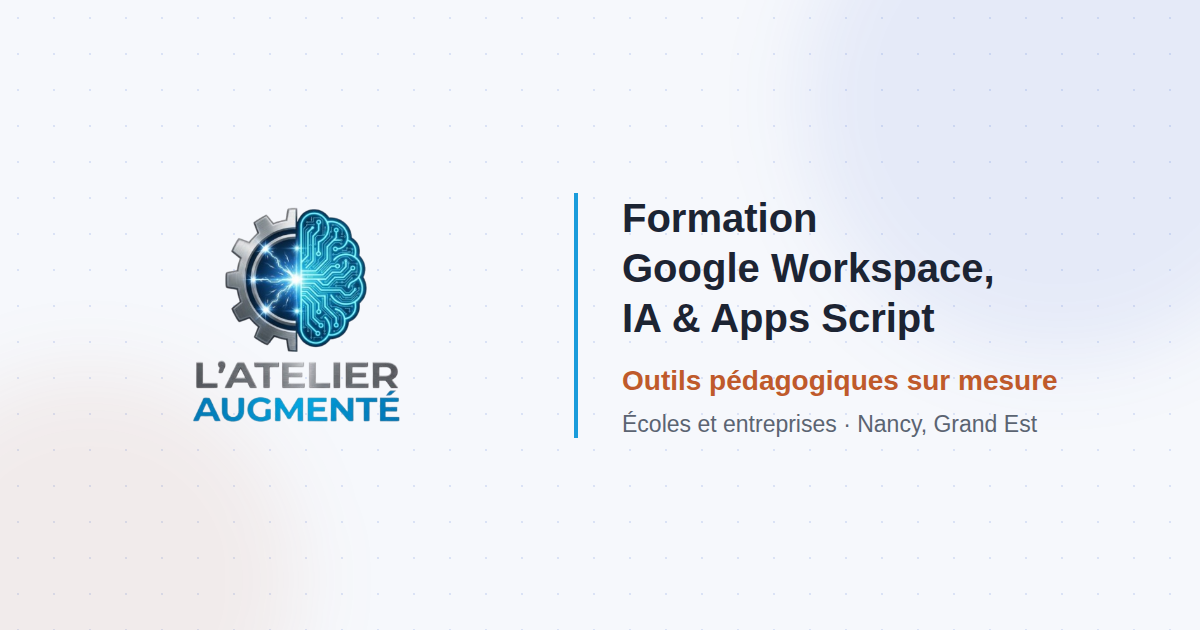
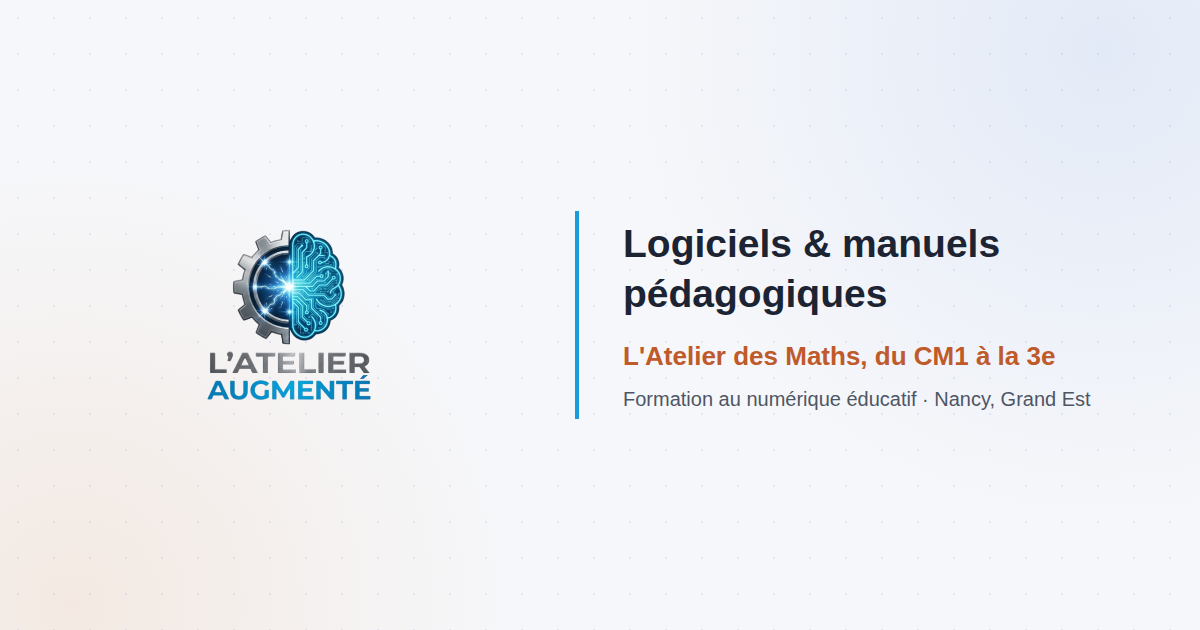
Site : logiciels et manuels pédagogiques au premier plan, formation en complément
Accueil (titre, présentation, piliers, chiffres, méthode, appel à l'action), menu,
pied de page, page À propos et image de partage réorientés vers l'activité principale
déclarée : création et vente de logiciels pédagogiques et de manuels numériques et papier.
L'Atelier des Maths mis à jour : du CM1 à la 3e (119 chapitres), lien vers les tarifs.

Claude-Session: https://claude.ai/code/session_01Bck5Zj23XtYH4Wg2EzL6Bn

Changed region(s): [[0.4933, 0.3016, 0.925, 0.6937], [0.1542, 0.3317, 0.3392, 0.6937], [0.4625, 0.6635, 0.4933, 0.6937]]

diff --git a/index.html b/index.html
@@ -3,18 +3,18 @@
 <head>
   <meta charset="UTF-8">
   <meta name="viewport" content="width=device-width, initial-scale=1.0">
-  <title>L'Atelier Augmenté — Expertise Numérique Écoles & Entreprises</title>
-  <meta name="description" content="Organisme de formation Google Workspace Education, IA et automatisation. Développement d'outils pédagogiques sur mesure. Région Grand Est.">
+  <title>L'Atelier Augmenté — Logiciels et manuels pédagogiques</title>
+  <meta name="description" content="Création et vente de logiciels pédagogiques et de manuels numériques et papier, dont L'Atelier des Maths (du CM1 à la 3e). En complément : formations au numérique éducatif. Région Grand Est.">
   <link rel="canonical" href="https://www.latelieraugmente.fr/">
   <meta property="og:type" content="website">
   <meta property="og:site_name" content="L'Atelier Augmenté">
   <meta property="og:locale" content="fr_FR">
-  <meta property="og:title" content="L'Atelier Augmenté — Expertise Numérique Écoles &amp; Entreprises">
-  <meta property="og:description" content="Organisme de formation Google Workspace Education, IA et automatisation. Développement d'outils pédagogiques sur mesure. Région Grand Est.">
+  <meta property="og:title" content="L'Atelier Augmenté — Logiciels et manuels pédagogiques">
+  <meta property="og:description" content="Création et vente de logiciels pédagogiques et de manuels numériques et papier, dont L'Atelier des Maths (du CM1 à la 3e). En complément : formations au numérique éducatif. Région Grand Est.">
   <meta property="og:url" content="https://www.latelieraugmente.fr/">
   <meta property="og:image" content="https://www.latelieraugmente.fr/og-image.png">
   <meta name="twitter:card" content="summary_large_image">
-  <script type="application/ld+json">{"@context": "https://schema.org", "@graph": [{"@type": ["EducationalOrganization", "ProfessionalService"], "@id": "https://www.latelieraugmente.fr/#organisation", "name": "L'Atelier Augmenté", "url": "https://www.latelieraugmente.fr/", "logo": "https://www.latelieraugmente.fr/Logo_transp.png", "image": "https://www.latelieraugmente.fr/og-image.png", "email": "contact@latelieraugmente.fr", "description": "Organisme de formation Google Workspace Education, IA et automatisation Apps Script ; développement d'outils pédagogiques et d'applications sur mesure pour écoles et entreprises.", "address": {"@type": "PostalAddress", "addressLocality": "Nancy", "addressRegion": "Grand Est", "addressCountry": "FR"}, "areaServed": [{"@type": "AdministrativeArea", "name": "Grand Est"}, {"@type": "Country", "name": "France"}], "founder": {"@type": "Person", "name": "Olivier Guyot", "jobTitle": "Formateur, professeur de mathématiques"}, "knowsAbout": ["Google Workspace for Education", "Google Sheets", "Google Apps Script", "Intelligence artificielle générative", "Outils pédagogiques numériques"], "hasCredential": {"@type": "EducationalOccupationalCredential", "credentialCategory": "Déclaration d'activité de formation", "identifier": "44540498054", "recognizedBy": {"@type": "GovernmentOrganization", "name": "Préfet de la région Grand Est"}}, "subOrganization": {"@type": "WebSite", "name": "L'Atelier des Maths", "url": "https://maths.latelieraugmente.fr/"}}, {"@type": "WebSite", "name": "L'Atelier Augmenté", "url": "https://www.latelieraugmente.fr/", "inLanguage": "fr", "publisher": {"@id": "https://www.latelieraugmente.fr/#organisation"}}]}</script>
+  <script type="application/ld+json">{"@context": "https://schema.org", "@graph": [{"@type": ["Organization", "EducationalOrganization"], "@id": "https://www.latelieraugmente.fr/#organisation", "name": "L'Atelier Augmenté", "url": "https://www.latelieraugmente.fr/", "logo": "https://www.latelieraugmente.fr/Logo_transp.png", "image": "https://www.latelieraugmente.fr/og-image.png", "email": "contact@latelieraugmente.fr", "description": "Création et vente de logiciels pédagogiques et de manuels numériques et papier, dont la plateforme L'Atelier des Maths (du CM1 à la 3e). En complément : formation au numérique éducatif (Google Workspace, IA, Apps Script) et outils sur mesure.", "address": {"@type": "PostalAddress", "addressLocality": "Nancy", "addressRegion": "Grand Est", "addressCountry": "FR"}, "areaServed": [{"@type": "AdministrativeArea", "name": "Grand Est"}, {"@type": "Country", "name": "France"}], "founder": {"@type": "Person", "name": "Olivier Guyot", "jobTitle": "Concepteur de logiciels pédagogiques, professeur de mathématiques"}, "knowsAbout": ["Logiciels pédagogiques", "Manuels scolaires numériques", "Google Workspace for Education", "Google Sheets", "Google Apps Script", "Intelligence artificielle générative", "Outils pédagogiques numériques"], "hasCredential": {"@type": "EducationalOccupationalCredential", "credentialCategory": "Déclaration d'activité de formation", "identifier": "44540498054", "recognizedBy": {"@type": "GovernmentOrganization", "name": "Préfet de la région Grand Est"}}, "subOrganization": {"@type": "WebSite", "name": "L'Atelier des Maths", "url": "https://maths.latelieraugmente.fr/"}}, {"@type": "WebSite", "name": "L'Atelier Augmenté", "url": "https://www.latelieraugmente.fr/", "inLanguage": "fr", "publisher": {"@id": "https://www.latelieraugmente.fr/#organisation"}}]}</script>
   <link rel="preconnect" href="https://fonts.googleapis.com">
   <link rel="preconnect" href="https://fonts.gstatic.com" crossorigin>
   <link href="https://fonts.googleapis.com/css2?family=Plus+Jakarta+Sans:wght@400;500;600;700;800&family=Geist:wght@300;400;500&display=swap" rel="stylesheet">
@@ -227,24 +227,24 @@
   <div class="hero-blob hero-blob-2"></div>
   <div class="hero-inner">
     <div>
-      <div class="hero-pill reveal"><span class="hero-pill-dot"></span>Organisme de formation certifié · Grand Est</div>
-      <h1 class="reveal d1">Expertise<br><em>Numérique</em><br>&amp; Pédagogique</h1>
-      <p class="hero-desc reveal d2">Google Workspace Education, Intelligence Artificielle, automatisation Apps Script — et le développement d'outils pédagogiques sur mesure.</p>
+      <div class="hero-pill reveal"><span class="hero-pill-dot"></span>Logiciels &amp; manuels pédagogiques · Grand Est</div>
+      <h1 class="reveal d1">Des <em>logiciels</em><br>pédagogiques<br>pensés pour la classe</h1>
+      <p class="hero-desc reveal d2">L'Atelier Augmenté conçoit et vend des logiciels pédagogiques et des manuels numériques et papier, à commencer par L'Atelier des Maths, du CM1 à la 3e. En complément : des formations au numérique éducatif.</p>
       <div class="hero-actions reveal d3">
-        <a href="formations.html" class="btn btn-primary">Voir les formations →</a>
-        <a href="contact.html" class="btn btn-outline">Prendre rendez-vous</a>
+        <a href="https://maths.latelieraugmente.fr" target="_blank" rel="noopener" class="btn btn-primary">Découvrir L'Atelier des Maths →</a>
+        <a href="https://maths.latelieraugmente.fr/tarifs/" target="_blank" rel="noopener" class="btn btn-outline">Voir les tarifs</a>
       </div>
     </div>
     <div class="hero-panel reveal d2">
       <div class="panel-head">
         <div class="panel-head-label">L'Atelier Augmenté</div>
-        <div class="panel-head-title">Formation · Outils · Innovation</div>
+        <div class="panel-head-title">Logiciels · Manuels · Formation</div>
       </div>
       <div class="panel-grid">
+        <div class="panel-stat"><div class="stat-n">CM1→3e</div><div class="stat-l">Niveaux couverts par L'Atelier des Maths</div></div>
+        <div class="panel-stat"><div class="stat-n">119</div><div class="stat-l">Chapitres de cours en ligne</div></div>
         <div class="panel-stat"><div class="stat-n">25+</div><div class="stat-l">Années d'expérience en éducation</div></div>
         <div class="panel-stat"><div class="stat-n">18 ans</div><div class="stat-l">Direction d'établissement scolaire</div></div>
-        <div class="panel-stat"><div class="stat-n">6e→Tle</div><div class="stat-l">Outils pédagogiques tous niveaux</div></div>
-        <div class="panel-stat"><div class="stat-n">IA+</div><div class="stat-l">Expertise IA générative &amp; Workspace</div></div>
       </div>
     </div>
   </div>
@@ -255,28 +255,28 @@
   <div class="services-hd">
     <div>
       <span class="section-tag reveal">Ce que nous faisons</span>
-      <h2 class="section-title reveal d1">Trois piliers,<br>une mission</h2>
+      <h2 class="section-title reveal d1">Créer, éditer,<br>accompagner</h2>
     </div>
-    <p class="section-sub reveal d1">Des solutions concrètes pour accompagner la transformation numérique de votre établissement ou entreprise.</p>
+    <p class="section-sub reveal d1">Des logiciels et des manuels conçus par un professeur, pour la classe ; et des formations pour en tirer le meilleur.</p>
   </div>
   <div class="services-grid">
     <div class="svc reveal">
-      <div class="svc-icon">🤖</div>
-      <h3>Formation IA &amp; Workspace</h3>
-      <p>Déploiement Google Workspace Education, maîtrise de l'IA générative et automatisation des processus pour écoles et entreprises.</p>
-      <a href="formations.html">Explorer les formations →</a>
+      <div class="svc-icon">📐</div>
+      <h3>Logiciels pédagogiques</h3>
+      <p>L'Atelier des Maths : cours, exercices, outils de classe, devoirs et évaluations, du CM1 à la 3e. Licences pour un professeur, un établissement ou une famille.</p>
+      <a href="https://maths.latelieraugmente.fr" target="_blank" rel="noopener">Découvrir L'Atelier des Maths →</a>
     </div>
     <div class="svc reveal d1">
-      <div class="svc-icon">⚡</div>
-      <h3>Automatisation Apps Script</h3>
-      <p>Solutions sur mesure : publipostage, flux de documents, outils de gestion personnalisés pour directions et personnels administratifs.</p>
-      <a href="formations.html">En savoir plus →</a>
+      <div class="svc-icon">📚</div>
+      <h3>Manuels numériques &amp; papier</h3>
+      <p>Des manuels et cahiers d'exercices conçus pour la classe : à projeter, à faire à l'écran ou à imprimer, avec leurs corrigés rédigés.</p>
+      <a href="creations.html">En savoir plus →</a>
     </div>
     <div class="svc reveal d2">
-      <div class="svc-icon">📐</div>
-      <h3>Outils pédagogiques sur mesure</h3>
-      <p>Conception d'applications et de plateformes pédagogiques interactives, pensées pour la classe. De la 6ème à la Terminale.</p>
-      <a href="creations.html">Découvrir →</a>
+      <div class="svc-icon">🎓</div>
+      <h3>Formation &amp; sur mesure</h3>
+      <p>En complément : formations Google Workspace Education, IA générative et Apps Script, et outils sur mesure pour les établissements.</p>
+      <a href="formations.html">Voir les formations →</a>
     </div>
   </div>
 </section>
@@ -286,23 +286,24 @@
   <div class="featured-inner">
     <div class="featured-copy">
       <span class="featured-badge reveal">En ligne depuis la rentrée 2026</span>
-      <span class="section-tag reveal d1">Un exemple concret</span>
-      <h2 class="section-title reveal d1">L'Atelier des Maths,<br>une plateforme que j'utilise vraiment</h2>
+      <span class="section-tag reveal d1">Notre logiciel phare</span>
+      <h2 class="section-title reveal d1">L'Atelier des Maths,<br>du CM1 à la 3e</h2>
       <p class="section-sub reveal d2">
-        Un cours complet pour chaque chapitre de 6ᵉ et de 5ᵉ : figures géométriques manipulables,
+        Un cours complet pour chaque chapitre, du CM1 à la 3e : figures géométriques manipulables,
         figures qui se construisent pas à pas à la règle et au compas, mode apprentissage pour réciter ses définitions, méthodes de rédaction
         et quiz générés par IA pour s'entraîner à l'infini. Côté professeur : cours personnalisables, devoirs corrigés
         automatiquement avec suivi du temps de travail, correction projetée en direct, création d'évaluations et bien plus.
       </p>
       <ul class="featured-list reveal d2">
-        <li>39 chapitres couvrant l'intégralité du programme B.O. 2026 (6ᵉ et 5ᵉ)</li>
+        <li>119 chapitres du CM1 à la 3e, conformes aux programmes en vigueur</li>
         <li>Figures construites pas à pas à la règle et au compas, et mode apprentissage des définitions</li>
         <li>Devoirs corrigés automatiquement : médailles, tentatives et temps de travail réel</li>
         <li>Cours personnalisables par chaque professeur, partagés avec ses collègues</li>
         <li>Tableau interactif, correction projetée, générateur d'évaluations, espace établissement</li>
       </ul>
-      <p class="featured-roadmap reveal d2">Disponible aujourd'hui : 6ᵉ et 5ᵉ. <strong>À venir :</strong> 4ᵉ/3ᵉ et CM1/CM2.</p>
+      <p class="featured-roadmap reveal d2">Licences pour un professeur, un établissement ou une famille : <strong>15 jours d'essai gratuit</strong>, paiement unique pour l'année scolaire, sans reconduction.</p>
       <a href="https://maths.latelieraugmente.fr" target="_blank" rel="noopener" class="btn btn-primary reveal d3">Découvrir la plateforme →</a>
+      <a href="https://maths.latelieraugmente.fr/tarifs/" target="_blank" rel="noopener" class="btn btn-outline reveal d3">Voir les tarifs</a>
       <a href="#atelier-maths-videos" class="btn btn-outline reveal d3">Voir les vidéos</a>
     </div>
     <div class="browser-mockup browser-mockup-carousel reveal d1">
@@ -456,8 +457,8 @@
   <div class="numbers-inner">
     <div class="num-item reveal"><div class="num-val">1998</div><div class="num-label">Début de l'enseignement des mathématiques</div></div>
     <div class="num-item reveal d1"><div class="num-val">18</div><div class="num-label">Années de direction d'établissement</div></div>
-    <div class="num-item reveal d2"><div class="num-val">3</div><div class="num-label">Piliers : Formation, Outils, Innovation</div></div>
-    <div class="num-item reveal d3"><div class="num-val">100%</div><div class="num-label">Autonomie — vos outils vous appartiennent</div></div>
+    <div class="num-item reveal d2"><div class="num-val">6</div><div class="num-label">Niveaux couverts, du CM1 à la 3e</div></div>
+    <div class="num-item reveal d3"><div class="num-val">0 €</div><div class="num-label">À payer pour les élèves d'une classe abonnée</div></div>
   </div>
 </div>
 
@@ -466,14 +467,14 @@
   <div class="process-inner">
     <div class="process-hd">
       <span class="section-tag reveal">Notre méthode</span>
-      <h2 class="section-title reveal d1">De l'audit à la mise en place</h2>
-      <p class="section-sub reveal d2" style="margin:0 auto">Une approche structurée pour des résultats durables.</p>
+      <h2 class="section-title reveal d1">Conçu en classe, amélioré chaque semaine</h2>
+      <p class="section-sub reveal d2" style="margin:0 auto">Des logiciels et des manuels nés de besoins réels, et qui continuent d'évoluer.</p>
     </div>
     <div class="process-steps">
-      <div class="pstep reveal"><div class="pstep-num">01</div><h3>Audit des besoins</h3><p>Analyse de votre environnement actuel et de vos objectifs spécifiques.</p></div>
-      <div class="pstep reveal d1"><div class="pstep-num">02</div><h3>Conception sur mesure</h3><p>Élaboration d'un programme adapté à votre structure et vos équipes.</p></div>
-      <div class="pstep reveal d2"><div class="pstep-num">03</div><h3>Formation &amp; déploiement</h3><p>Accompagnement terrain avec sessions pratiques et outils clé en main.</p></div>
-      <div class="pstep reveal d3"><div class="pstep-num">04</div><h3>Suivi &amp; évolution</h3><p>Support continu et adaptation aux évolutions de vos besoins numériques.</p></div>
+      <div class="pstep reveal"><div class="pstep-num">01</div><h3>Conçu par un professeur</h3><p>Chaque outil part d'un besoin rencontré en classe, avec de vrais élèves.</p></div>
+      <div class="pstep reveal d1"><div class="pstep-num">02</div><h3>Fidèle aux programmes</h3><p>Cours et exercices suivent les programmes officiels en vigueur, niveau par niveau.</p></div>
+      <div class="pstep reveal d2"><div class="pstep-num">03</div><h3>Mis à jour en continu</h3><p>Nouvelles fonctions et corrections chaque semaine, à partir des retours des professeurs.</p></div>
+      <div class="pstep reveal d3"><div class="pstep-num">04</div><h3>Prise en main accompagnée</h3><p>Aide au démarrage et formation des équipes, pour en tirer le meilleur.</p></div>
     </div>
   </div>
 </section>
@@ -482,10 +483,11 @@
 <section class="cta-band">
   <div class="cta-band-inner">
     <span class="section-tag reveal" style="display:block">Passez à l'action</span>
-    <h2 class="reveal d1">Prêt à augmenter votre potentiel numérique ?</h2>
-    <p class="reveal d2">Un entretien gratuit pour définir ensemble votre feuille de route. Aucun engagement.</p>
+    <h2 class="reveal d1">Essayez L'Atelier des Maths dans votre classe</h2>
+    <p class="reveal d2">15 jours d'essai gratuit, sans engagement. Pour une licence établissement, une formation ou un projet sur mesure : prenons rendez-vous.</p>
     <div class="cta-actions reveal d3">
-      <a href="contact.html" class="btn btn-primary">Prendre rendez-vous →</a>
+      <a href="https://maths.latelieraugmente.fr" target="_blank" rel="noopener" class="btn btn-primary">Essayer gratuitement →</a>
+      <a href="contact.html" class="btn btn-outline">Prendre rendez-vous</a>
     </div>
   </div>
 </section>

diff --git a/creations.html b/creations.html
@@ -415,18 +415,18 @@
       <h2 class="section-title reveal d1">L'Atelier des Maths,<br>un exemple parmi mes créations</h2>
       <p class="section-sub reveal d2">
         Plutôt que de vous parler de ce que je pourrais faire, voici un outil pédagogique complet que j'ai conçu
-        et que j'utilise vraiment avec mes propres classes : un cours pour chaque chapitre de 6ᵉ et de 5ᵉ,
+        et que j'utilise vraiment avec mes propres classes : un cours pour chaque chapitre, du CM1 à la 3e,
         des figures manipulables, des figures qui se construisent pas à pas à la règle et au compas, des quiz générés par IA, et tout le nécessaire
         côté professeur pour gagner du temps au quotidien : cours personnalisables, devoirs corrigés automatiquement, correction projetée.
       </p>
       <ul class="featured-list reveal d2">
-        <li>39 chapitres couvrant l'intégralité du programme B.O. 2026 (6ᵉ et 5ᵉ)</li>
+        <li>119 chapitres du CM1 à la 3e, conformes aux programmes en vigueur</li>
         <li>Figures construites pas à pas à la règle et au compas, et mode apprentissage des définitions</li>
         <li>Devoirs corrigés automatiquement : médailles, tentatives et temps de travail réel</li>
         <li>Cours personnalisables par chaque professeur, partagés avec ses collègues</li>
         <li>Tableau interactif, correction projetée, générateur d'évaluations, espace établissement</li>
       </ul>
-      <p class="featured-roadmap reveal d2">Disponible aujourd'hui : 6ᵉ et 5ᵉ. <strong>À venir :</strong> 4ᵉ/3ᵉ et CM1/CM2.</p>
+      <p class="featured-roadmap reveal d2">Licences pour un professeur, un établissement ou une famille : <strong>15 jours d'essai gratuit</strong>, paiement unique pour l'année scolaire. <a href="https://maths.latelieraugmente.fr/tarifs/" target="_blank" rel="noopener">Voir les tarifs</a></p>
       <a href="https://maths.latelieraugmente.fr" target="_blank" rel="noopener" class="btn btn-primary reveal d3">Découvrir la plateforme →</a>
       <a href="#atelier-maths-videos" class="btn btn-outline reveal d3">Voir les vidéos</a>
     </div>

diff --git a/apropos.html b/apropos.html
@@ -192,9 +192,9 @@
     <span class="section-tag reveal" style="color:rgba(255,255,255,0.5);display:block;text-align:center">Notre mission</span>
     <h2 class="section-title reveal d1" style="color:#fff;text-align:center;margin-bottom:3rem">Les trois piliers de L'Atelier Augmenté</h2>
     <div class="pgrid">
-      <div class="pcrd2 reveal"><span class="pcrd2-n">01</span><span class="ico">🎓</span><h3>La Formation</h3><p>Accompagner enseignants, cadres et entreprises dans leur montée en compétences : Workspace Education, IA, Google Apps Script. À chaque problème, une solution concrète.</p></div>
-      <div class="pcrd2 reveal d1"><span class="pcrd2-n">02</span><span class="ico">📐</span><h3>Les Outils Pédagogiques</h3><p>Le développement d'applications et de plateformes pédagogiques interactives, pensées pour la classe. L'excellence pédagogique au service de chaque élève, du collège à la Terminale.</p></div>
-      <div class="pcrd2 reveal d2"><span class="pcrd2-n">03</span><span class="ico">⚙</span><h3>L'Innovation</h3><p>La création de produits numériques sur mesure : automatisations, outils de gestion pour établissements et professionnels. Des solutions qui vous appartiennent entièrement.</p></div>
+      <div class="pcrd2 reveal"><span class="pcrd2-n">01</span><span class="ico">📐</span><h3>Les Logiciels Pédagogiques</h3><p>Le cœur de L'Atelier Augmenté : concevoir et vendre des logiciels pédagogiques pensés pour la classe, à commencer par L'Atelier des Maths, du CM1 à la 3e.</p></div>
+      <div class="pcrd2 reveal d1"><span class="pcrd2-n">02</span><span class="ico">📚</span><h3>Les Manuels</h3><p>Des manuels et cahiers d'exercices, numériques et papier, rédigés par un professeur : clairs, progressifs, avec des corrigés rédigés.</p></div>
+      <div class="pcrd2 reveal d2"><span class="pcrd2-n">03</span><span class="ico">🎓</span><h3>La Formation</h3><p>En complément : accompagner enseignants, cadres et entreprises dans leur montée en compétences (Workspace Education, IA, Google Apps Script) et créer des outils sur mesure.</p></div>
     </div>
   </div>
 </section>

diff --git a/footer.html b/footer.html
@@ -5,12 +5,12 @@
         <div class="logo-icon-wrap footer-logo"><img src="Logo_transp.png" alt="L'Atelier Augmenté"></div>
         <span>L'Atelier Augmenté</span>
       </a>
-      <p>Organisme de formation spécialisé dans l'intégration de l'IA et l'automatisation pour le milieu scolaire et entreprise.</p>
-      <small>N° 44540498054 — Préfet de région Grand Est</small>
+      <p>Création et vente de logiciels pédagogiques et de manuels numériques et papier. En complément : formation au numérique éducatif.</p>
+      <small>Organisme de formation n° 44540498054 — Préfet de région Grand Est</small>
     </div>
+    <div class="footer-col"><h4>Logiciels</h4><ul><li><a href="https://maths.latelieraugmente.fr" target="_blank" rel="noopener">L'Atelier des Maths</a></li><li><a href="https://maths.latelieraugmente.fr/tarifs/" target="_blank" rel="noopener">Tarifs</a></li><li><a href="creations.html">Créations sur mesure</a></li></ul></div>
     <div class="footer-col"><h4>Formations</h4><ul><li><a href="formations.html">Google Sheets</a></li><li><a href="formations.html">Workspace Éducation</a></li><li><a href="formations.html">Outils Google</a></li><li><a href="formations.html">IA Générative</a></li><li><a href="formations.html">Apps Script</a></li></ul></div>
-    <div class="footer-col"><h4>Entreprise</h4><ul><li><a href="creations.html">Sites &amp; Applications</a></li>
-        <li><a href="apropos.html">À propos</a></li><li><a href="contact.html">Contact</a></li><li><a href="mentions.html">Mentions légales</a></li></ul></div>
+    <div class="footer-col"><h4>Entreprise</h4><ul><li><a href="apropos.html">À propos</a></li><li><a href="contact.html">Contact</a></li><li><a href="mentions.html">Mentions légales</a></li></ul></div>
     <div class="footer-col"><h4>Contact</h4><p>📧 contact@latelieraugmente.fr<br>📍 Région de Nancy, Grand Est</p></div>
   </div>
   <div class="footer-bottom">

diff --git a/header.html b/header.html
@@ -10,8 +10,8 @@
   </a>
   <ul class="nav-links" id="nav-links">
     <li><a href="index.html">Accueil</a></li>
+    <li><a href="creations.html">Logiciels & créations</a></li>
     <li><a href="formations.html">Formations</a></li>
-    <li><a href="creations.html">Sites & Apps</a></li>
     <li><a href="apropos.html">À propos</a></li>
     <li><a href="contact.html" class="nav-cta">Rendez-vous 📆</a></li>
   </ul>

diff --git a/shared.css b/shared.css
@@ -212,8 +212,8 @@ footer {
 }
 .footer-inner {
   max-width: 1160px; margin: 0 auto;
-  display: grid; grid-template-columns: 1.8fr 1fr 1fr 1fr;
-  gap: 3rem; padding-bottom: 3rem;
+  display: grid; grid-template-columns: 1.6fr 1fr 1fr 1fr 1fr;
+  gap: 2.5rem; padding-bottom: 3rem;
   border-bottom: 1px solid rgba(250,247,242,0.08);
 }
 .footer-brand .nav-logo { margin-bottom: 1rem; }
